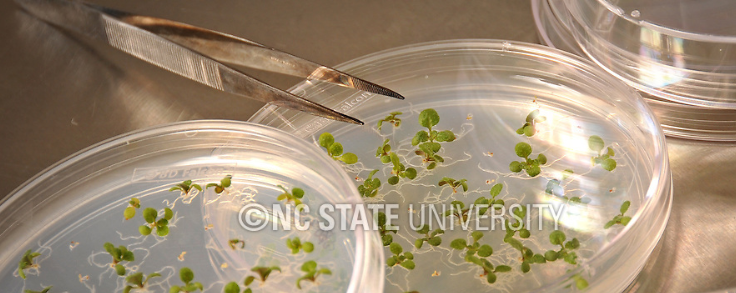
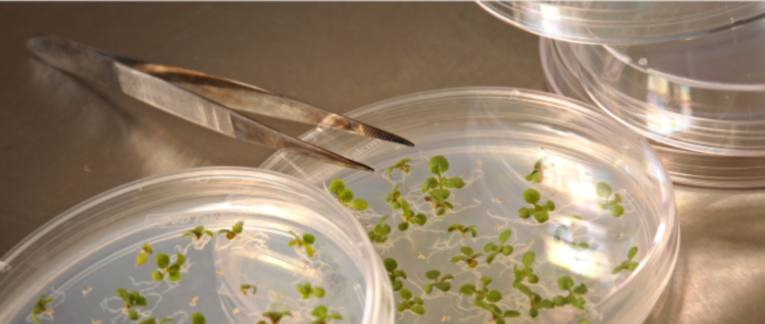
images

diff --git a/assets/js/app.js b/assets/js/app.js
@@ -29,23 +29,28 @@ $(document).ready(function() {
     ];
 
     var events = [
-        { name: "Samantha Case - Sirius Li Lab", date: "May 4th, 2018", time: "3:00 pm - room 2212, Garnder Hall", season: "Spring 2018", desc: "Coffee/Cookies"},
-        { name: "Natalie Clark - Sozzani Lab", date: "May 11th, 2018", time: "3:00pm - room 2212, Gardner Hall", season: "Spring 2018", desc: "Coffee/Cookies"},
-        { name: "Jigar Desai - Colleen Doherty Lab", date: "May 18th, 2018", time: "3:00pm - room 2212, Gardner Hall", season: "Spring 2018", desc: "Coffee/Cookies"},
-        { name: "Ann Loraine - INTRYNSyC", date: "May 25th, 2018", time: "3:00pm - room 2212, Gardner Hall", season: "Spring 2018", desc: "Pizza/Drinks"},
-        { name: "Imani Madison - Long Lab", date: "June 1st, 2018", time: "3:00pm - room 2212, Gardner Hall", season: "Summer 2018", desc: "Coffee/Cookies"},
-        { name: "Ben Graham - Candace Haigler Lab", date: "June 8th, 2018", time: "3:00pm - room 2212, Gardner Hall", season: "Summer 2018", desc: "Coffee/Cookies"},
-        { name: "Saet-byul Kim - Balint-Kurti Lab", date: "June 15th, 2018", time: "3:00pm - room 2212, Gardner Hall", season: "Summer 2018", desc: "Coffee/Cookies"},        
-        { name: "Brian Sullivan - Bob Franks Lab", date: "June 22nd, 2018", time: "3:00pm - room 2212, Gardner Hall", season: "Summer 2018", desc: "Coffee/Cookies"},
-        { name: "Ryan Sartor - Hollan Lab / ASPB", date: "July 6th, 2018", time: "3:00pm - room 2212, Gardner Hall", season: "Summer 2018", desc: "Coffee/Cookies"},
-        { name: "Donna Liebelt - Colleen Doherty Lab", date: "July 13th, 2018", time: "3:00pm - room 2212, Gardner Hall", season: "Summer 2018", desc: "Coffee/Cookies"}
+        { name: "Jigar Desai - Colleen Doherty Lab", date: "May 18th, 2018", time: "3:00 p.m. - room 2212, Gardner Hall", season: "Spring 2018", desc: "Coffee/Cookies"},
+        { name: "Ann Loraine - INTRYNSyC", date: "May 25th, 2018", time: "3:00 p.m. - room 2212, Gardner Hall", season: "Spring 2018", desc: "Pizza/Drinks"},
+        { name: "Imani Madison - Long Lab", date: "June 1st, 2018", time: "3:00 p.m. - room 2212, Gardner Hall", season: "Summer 2018", desc: "Coffee/Cookies"},
+        { name: "Ben Graham - Candace Haigler Lab", date: "June 8th, 2018", time: "3:00 p.m. - room 2212, Gardner Hall", season: "Summer 2018", desc: "Coffee/Cookies"},
+        { name: "Saet-byul Kim - Balint-Kurti Lab", date: "June 15th, 2018", time: "3:00 p.m. - room 2212, Gardner Hall", season: "Summer 2018", desc: "Coffee/Cookies"},        
+        { name: "Brian Sullivan - Bob Franks Lab", date: "June 22nd, 2018", time: "3:00 p.m. - room 2212, Gardner Hall", season: "Summer 2018", desc: "Coffee/Cookies"},
+        { name: "Ryan Sartor - Hollan Lab / ASPB", date: "July 6th, 2018", time: "3:00 p.m. - room 2212, Gardner Hall", season: "Summer 2018", desc: "Coffee/Cookies"},
+        { name: "Donna Liebelt - Colleen Doherty Lab", date: "July 13th, 2018", time: "3:00 p.m. - room 2212, Gardner Hall", season: "Summer 2018", desc: "Coffee/Cookies"},
+        { name: "John McDowell - INTRINSyC", date: "July 20th, 2018", time: "3:00 p.m. - room 2212, Gardner Hall", season: "Summer 2018", desc: "Pizza/Dinks"},
+        { name: "Summer REU Students", date: "All Labs", time: "3:00 p.m. - room 2212, Gardner Hall", season: "Summer 2018", desc: ""}
+        // { name: "", date: "", time: "", season: "", desc: ""},
+        // { name: "", date: "", time: "", season: "", desc: ""},
+        // { name: "", date: "", time: "", season: "", desc: ""},
+        // { name: "", date: "", time: "", season: "", desc: ""},
+    
     ];
 
     function labsDisplay() {
         //loop through labs and display image, title, links
         for (var i = 0; i < memberLabs.length; i++) {
             //create card which holds image, title and links
-            var cardDiv = $("<div class='col-lg-3 col-md-4 col-sm-12'>");
+            var cardDiv = $("<div class='col-lg-3 col-md-4 col-sm-6 col-xs-12'>");
             var labCard = $("<div class='card member-card'>");
             var cardImage = $("<img class='card-img-top' src='" + memberLabs[i].labImg + "'>");
             // cardImage.html("<img class='card-img-top' src='http://www4.ncsu.edu/~jmalonso/Alonso-Stepanova_Photos_files/Lab2016_2.png'>");
@@ -75,6 +80,8 @@ $(document).ready(function() {
 
     function eventsDisplay() {
     	var season;
+        var date = $.now();
+        console.log(date);
         //loop through events and display them 
         for (var i = 0; i < events.length; i++) {
         	if (season !== events[i].season) {

diff --git a/events.html b/events.html
@@ -1,10 +1,9 @@
 <!DOCTYPE html>
 <html lang="en">
-
 <head>
     <meta charset="utf-8">
     <meta http-equiv="X-UA-Compatible" content="IE=edge">
-    <meta name="viewport" content="width=device-width, initial-scale=1">
+    <meta name="viewport" content="width=device-width, initial-scale=1, shrink-to-fit=no">
     <title>INTRINSyC Plant Biology</title>
     <!-- Bootstrap -->
     <link rel="stylesheet" href="https://maxcdn.bootstrapcdn.com/bootstrap/4.0.0/css/bootstrap.min.css" integrity="sha384-Gn5384xqQ1aoWXA+058RXPxPg6fy4IWvTNh0E263XmFcJlSAwiGgFAW/dAiS6JXm" crossorigin="anonymous">
@@ -19,7 +18,8 @@
 </head>
 
 <body>
-    <div id="ncstate-utility-bar showBrick=0"></div>
+    <!-- navbar as specified by NCSU -->
+    <div id="ncstate-utility-bar" class="ncstate-utility-bar gray" role="naviation" aria-label="NC State Brand Utility Bar"></div>
     <header>
         <nav>
             <ul class="nav justify-content-center">
@@ -35,21 +35,20 @@
             </ul>
         </nav>
     </header>
+
     <header class="landing-header">
-        <!-- <div class="container"> -->
-            <div class="row">
+        <div class="row">
             <div class="col-lg-6 top-section">
                 <h1>INTRINSyC <br>Plant Biology</h1>
-                <p><a href="index.html" class="learn-link">Learn More</a></p>
             </div>
-            <div class="col-lg-6">
+            <div class="col-lg-6 img-header">
                 <picture>
-                    <img src="https://web.ncsu.edu/ncstate-theme-demo/wp-content/uploads/2014/06/copperwolves1.jpg" class="img-responsive" alt="INTRINSyC_Plant_Biology">
+                    <img src="assets/images/petri2.png" class="img-responsive" alt="INTRINSyC_Plant_Biology">
                 </picture>
             </div>
         </div>
-        <!-- </div> -->
     </header>
+
     <main>
         <div class="row">
             <div class="container">
@@ -61,10 +60,8 @@
                 </div>
             </div>
         </div>
-<!--         <div class="container calendar">
-            <iframe src="https://calendar.google.com/calendar/embed?src=j2bu650tg4dj9j7ijab3d9jnrg%40group.calendar.google.com&ctz=America%2FNew_York" style="border: 0" width="800" height="600" frameborder="0" scrolling="no"></iframe>
-        </div> -->
     </main>
+
     <footer>
         <div class="container main-footer">
             <div class="footer-address">
@@ -87,6 +84,7 @@
             </div>
         </div>
     </footer>
+
     <!-- jQuery (necessary for Bootstrap's JavaScript plugins) -->
     <script src="https://ajax.googleapis.com/ajax/libs/jquery/2.1.0/jquery.min.js"></script>
     <script src="https://code.jquery.com/jquery-3.2.1.slim.min.js" integrity="sha384-KJ3o2DKtIkvYIK3UENzmM7KCkRr/rE9/Qpg6aAZGJwFDMVNA/GpGFF93hXpG5KkN" crossorigin="anonymous"></script>

diff --git a/index.html b/index.html
@@ -4,7 +4,7 @@
 <head>
     <meta charset="utf-8">
     <meta http-equiv="X-UA-Compatible" content="IE=edge">
-    <meta name="viewport" content="width=device-width, initial-scale=1">
+    <meta name="viewport" content="width=device-width, initial-scale=1, shrink-to-fit=no">
     <title>INTRINSyC Plant Biology</title>
     <!-- Bootstrap -->
     <link rel="stylesheet" href="https://maxcdn.bootstrapcdn.com/bootstrap/4.0.0/css/bootstrap.min.css" integrity="sha384-Gn5384xqQ1aoWXA+058RXPxPg6fy4IWvTNh0E263XmFcJlSAwiGgFAW/dAiS6JXm" crossorigin="anonymous">
@@ -19,6 +19,7 @@
 </head>
 
 <body>
+    <!-- navbar as specified by NCSU -->
     <div id="ncstate-utility-bar" class="ncstate-utility-bar gray" role="naviation" aria-label="NC State Brand Utility Bar"></div>
     <header>
         <nav>
@@ -36,18 +37,16 @@
         </nav>
     </header>
     <header class="landing-header">
-        <!-- <div class="container"> -->
         <div class="row">
             <div class="col-lg-6 top-section">
                 <h1>INTRINSyC <br>Plant Biology</h1>
             </div>
-            <div class="col-lg-6">
+            <div class="col-lg-6 img-header">
                 <picture>
                     <img src="assets/images/petri2.png" class="img-responsive" alt="INTRINSyC_Plant_Biology">
                 </picture>
             </div>
         </div>
-        <!-- </div> -->
     </header>
     <main>
         <div class="row">
@@ -78,16 +77,6 @@
                 <button type="button" class="btn"><a href="#">
                         <span class="glyphicon glyphicon-twitter"></span>
                     Twitter</a></button>
-                <!--                 <li>
-                    <a href="#">
-                        <span class="glyphicon glyphicon-fb"></span>
-                    Facebook</a>
-                </li>
-                <li>
-                    <a href="#">
-                        <span class="glyphicon glyphicon-twitter"></span>
-                    Twitter</a>
-                </li> -->
             </div>
         </div>
         <div class="sub-footer">

diff --git a/memberlabs.html b/memberlabs.html
@@ -4,7 +4,7 @@
 <head>
     <meta charset="utf-8">
     <meta http-equiv="X-UA-Compatible" content="IE=edge">
-    <meta name="viewport" content="width=device-width, initial-scale=1">
+    <meta name="viewport" content="width=device-width, initial-scale=1, shrink-to-fit=no">
     <title>INTRINSyC Plant Biology</title>
     <!-- Bootstrap -->
     <link rel="stylesheet" href="https://maxcdn.bootstrapcdn.com/bootstrap/4.0.0/css/bootstrap.min.css" integrity="sha384-Gn5384xqQ1aoWXA+058RXPxPg6fy4IWvTNh0E263XmFcJlSAwiGgFAW/dAiS6JXm" crossorigin="anonymous">
@@ -19,7 +19,8 @@
 </head>
 
 <body>
-    <div id="ncstate-utility-bar showBrick=0"></div>
+    <!-- navbar as specified by NCSU -->
+    <div id="ncstate-utility-bar" class="ncstate-utility-bar gray" role="naviation" aria-label="NC State Brand Utility Bar"></div>
     <header>
         <nav>
             <ul class="nav justify-content-center">
@@ -36,19 +37,16 @@
         </nav>
     </header>
     <header class="landing-header">
-        <!-- <div class="container"> -->
         <div class="row">
-            <div class="col-lg-6 top-section">
+            <div class="col-lg-6 col-md-12 top-section">
                 <h1>INTRINSyC <br>Plant Biology</h1>
-                <p><a href="index.html" class="learn-link">Learn More</a></p>
             </div>
-            <div class="col-lg-6">
+            <div class="col-lg-6 col-md-12 img-header">
                 <picture>
-                    <img src="https://web.ncsu.edu/ncstate-theme-demo/wp-content/uploads/2014/06/copperwolves1.jpg" class="img-responsive" alt="INTRINSyC_Plant_Biology">
+                    <img src="assets/images/petri2.png" class="img-responsive" alt="INTRINSyC_Plant_Biology">
                 </picture>
             </div>
         </div>
-        <!-- </div> -->
     </header>
     <main>
         <div class="row">

diff --git a/assets/css/style.css b/assets/css/style.css
@@ -116,6 +116,10 @@ button a {
     display: block;
 }
 
+.img-header {
+    padding-left: 0px;
+}
+
 .event-card {
 	padding-left: 30px;
     margin-bottom: 40px;
